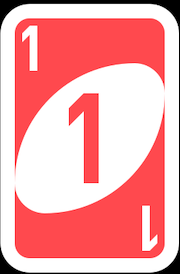
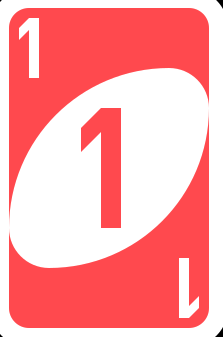
ok fine

diff --git a/uno/index.js b/uno/index.js
@@ -195,6 +195,7 @@ function StartNewGame(deck) {
   body.prepend(modale);
 }
 
+myHand = [];
 createField(deck);
 StartNewGame(deck);
 
@@ -205,8 +206,14 @@ function PescaLeCarte(deck) {
 
   const myCardContainer = document.querySelector(".my-cards-container");
   for (var i = 0; i < 8; i++) {
-    console.log(arrayCarte[i]);
     card = arrayCarte.shift();
+    myHand.push(card);
+  }
+  console.log("myhand: " + myHand);
+  for (var i = 0; i < 8; i++) {
+    card = myHand[i];
+
+    console.log(card, i);
     const cardContainer = document.createElement("div");
     cardContainer.classList.add("my-card-element");
     var link = "url('" + card[2] + "')";
@@ -217,7 +224,7 @@ function PescaLeCarte(deck) {
     cardContainer.addEventListener(
       "click",
       () => {
-        usaCarta(card);
+        usaCarta(card, myHand, i);
         cardContainer.remove();
       },
       true
@@ -225,7 +232,8 @@ function PescaLeCarte(deck) {
   }
 }
 
-function usaCarta(carta) {
+function usaCarta(carta, myHand, idx) {
+  console.log(carta, myHand);
   const cardContainer = document.querySelector(".ultima-carta");
   cardContainer.innerHTML = "";
   cardContainer.classList.add("my-card-element");

diff --git a/uno/style2.css b/uno/style2.css
@@ -30,6 +30,7 @@
   background-color: #fff;
   border: 3px solid #000;
   background-size: cover;
+  border-radius: 20px;
 }
 
 .deck {
@@ -117,6 +118,7 @@
   border-radius: 12px;
   background-size: cover;
   border: 3px solid #000;
+  border-radius: 20px;
 }
 
 .my-card-element h3 {
